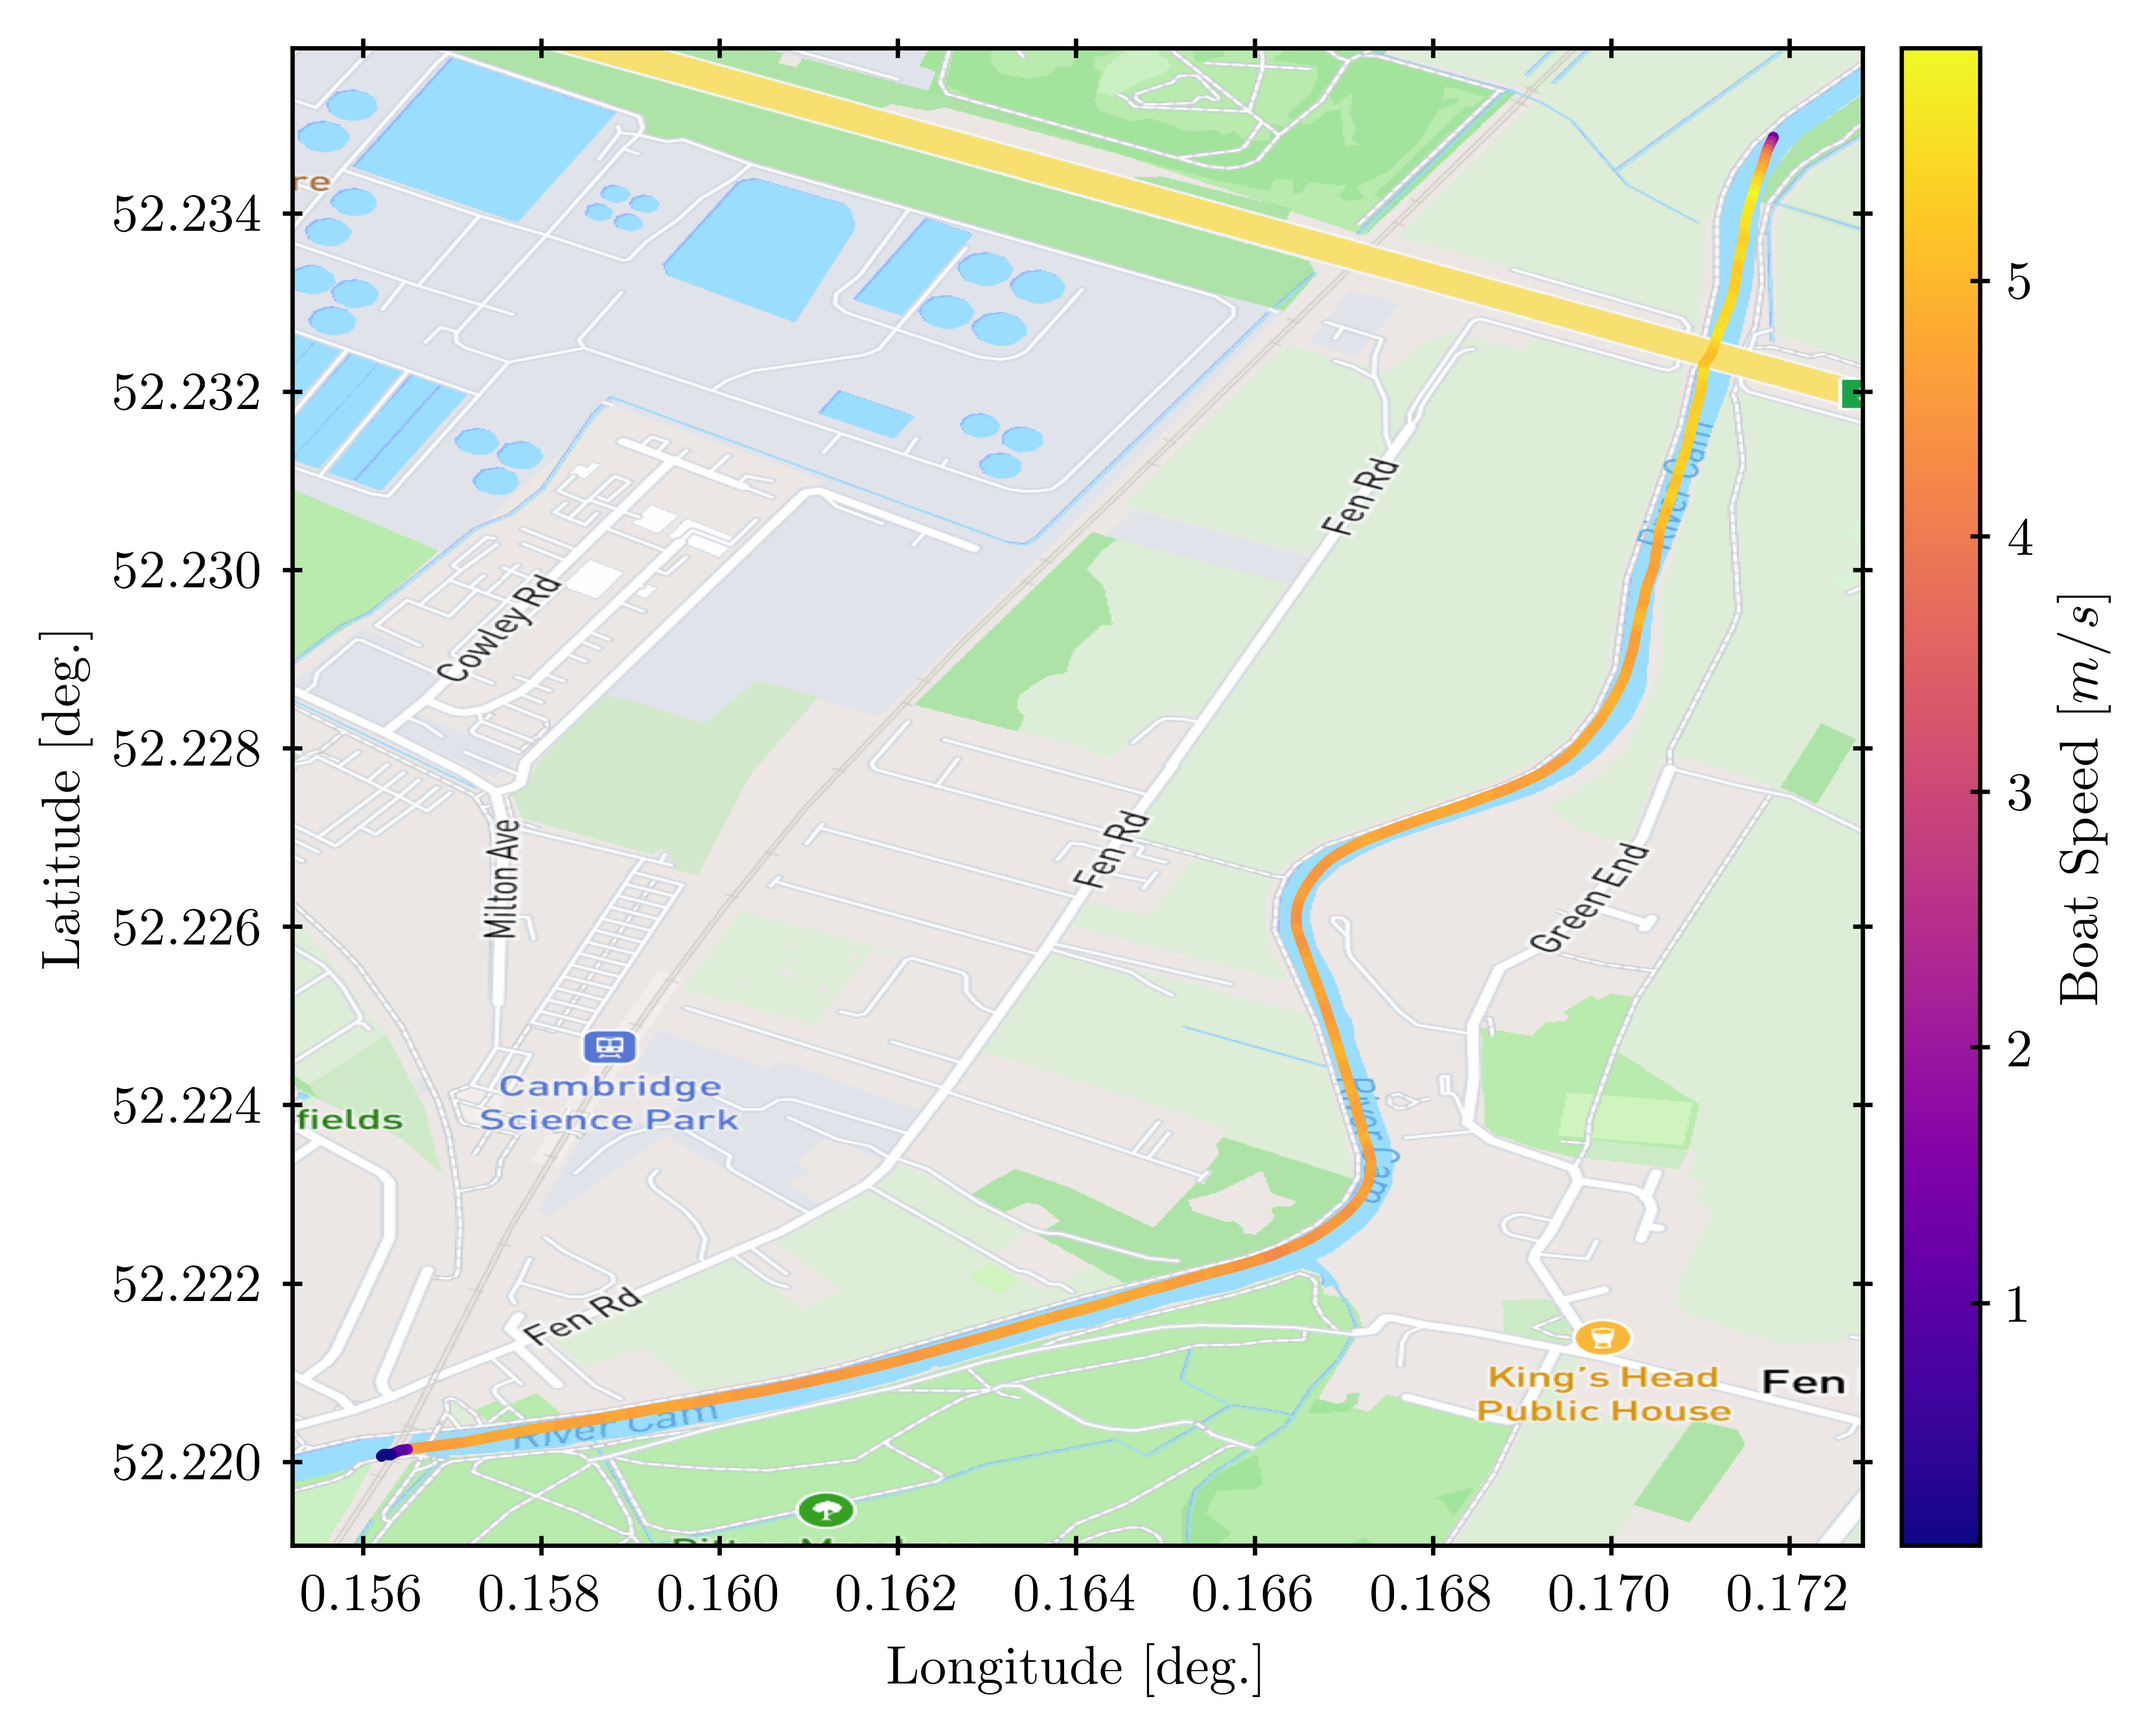
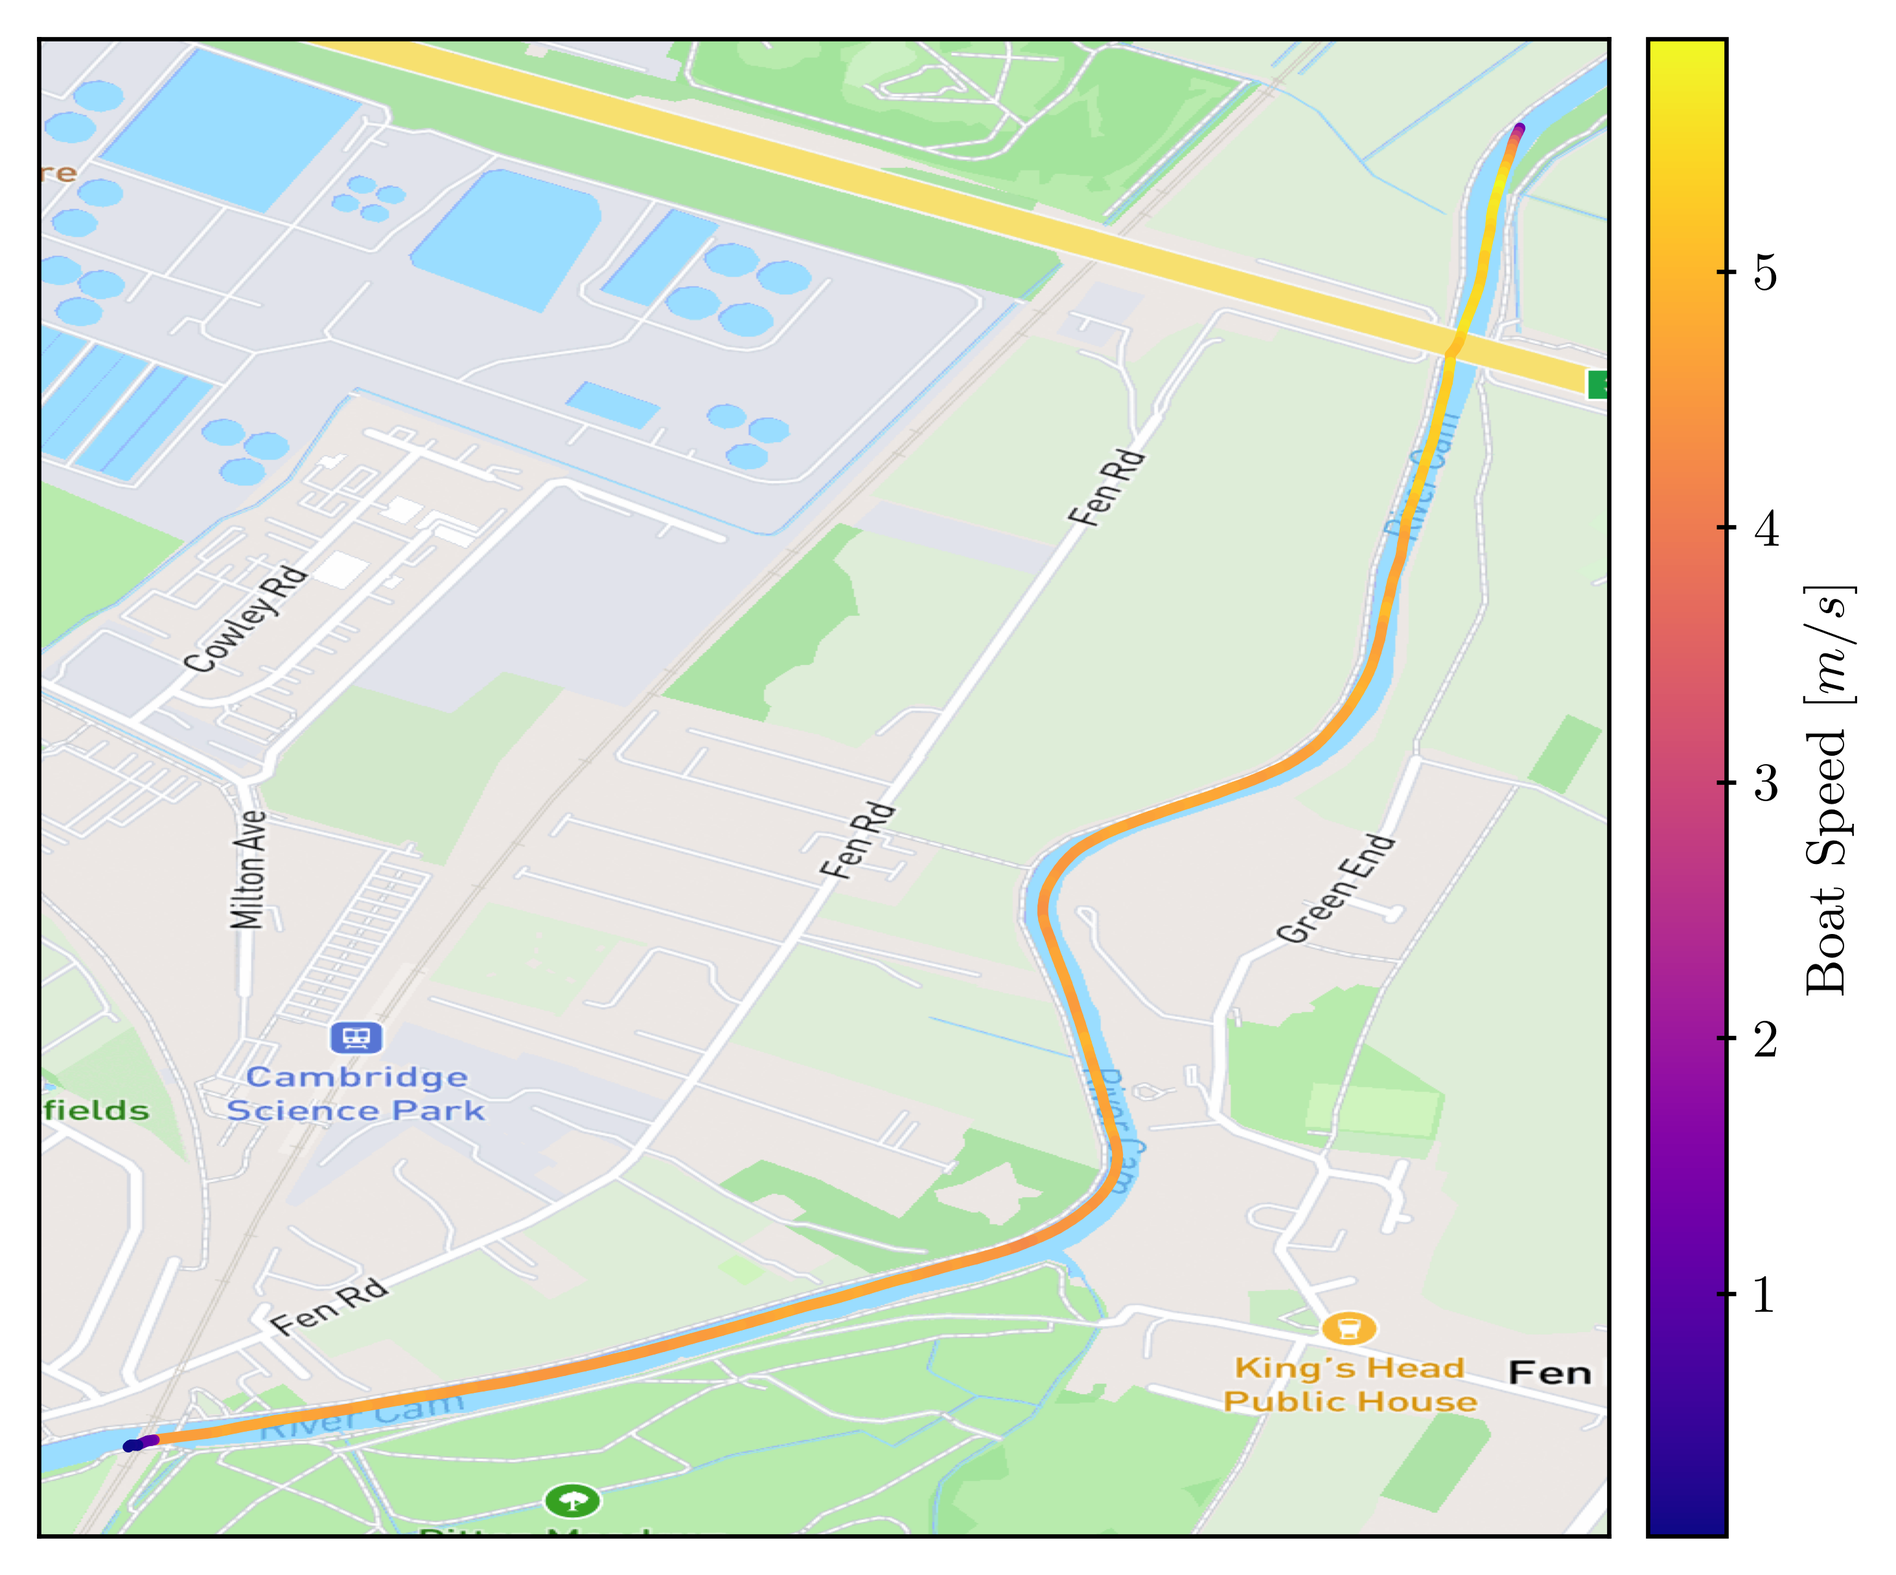
Added plots and analytics tools

diff --git a/strokecoach_plotter.py b/strokecoach_plotter.py
@@ -41,9 +41,11 @@ def ReadSessionDateTime(fname):
     time_h = int(time_string[0:2])
     time_m = int(time_string[2:4])
     
+    if "pm" in fname: time_h = time_h + 12
+    
     session = datetime.datetime(date_y,date_m,date_d,time_h,time_m)
         
-    session_datetime = session.strftime("%a %d %b %Y - %H:%M %p")
+    session_datetime = session.strftime("%a %d %b %Y - %H:%M %p".format())
     
     return session_datetime
 
@@ -190,7 +192,7 @@ def GetMapFromBoundingBox(bbox):
     
 #==============================================================================
 
-def GetBBox(fname,stroke_slice=None,space=0):
+def GetBBox(fname,stroke_slice=None,padding=0):
     
     data = LoadRowingData(fname)
     
@@ -199,37 +201,86 @@ def GetBBox(fname,stroke_slice=None,space=0):
     else:
         indices = slice(0,(data["Total Strokes"].size -1))
         
-    lat = data["GPS Lat."]
-    lon = data["GPS Lon."]
+    lat = data["GPS Lat."][indices]
+    lon = data["GPS Lon."][indices]
     
-    lat_slice = lat[indices]
-    lon_slice = lon[indices]
+    lat_min,lat_max = lat.min(),lat.max()
+    lon_min,lon_max = lon.min(),lon.max()
     
-    lat_min,lat_max = lat_slice.min(),lat_slice.max()
-    lon_min,lon_max = lon_slice.min(),lon_slice.max()
-    
-    lat_avg = (lat_min+lat_max)/2
-    lon_avg = (lon_min+lon_max)/2
-    
-    print("Lat. Min: {:9.6f}, Max: {:9.6f}, Avg: {:9.6f}".format(lat_min,lat_max,lat_avg))
-    print("Lon. Min: {:9.6f}, Max: {:9.6f}, Avg: {:9.6f}".format(lon_min,lon_max,lon_avg))
-    
-    bbox = (lon_min-space,lon_max+space,lat_min-space,lat_max+space) 
+    bbox = (lon_min-padding,lon_max+padding,lat_min-padding,lat_max+padding) 
 
     return bbox
+
+#==============================================================================
+
+def GetStatistics(fname,stroke_slice):
+    
+    print("\nStatistics:\n")
+    
+    data = LoadRowingData(fname)
+    
+    if stroke_slice:
+        indices = slice(stroke_slice[0],stroke_slice[1]-1)
+    else:
+        indices = slice(0,(data["Total Strokes"].size -1))
+    
+    speed = data["Speed (GPS)"][indices]
+    min_speed = speed.min()
+    max_speed = speed.max()
+    avg_speed = np.average(speed)
+    
+    print("{} \t\t\t\t\t\t- Min: {:7.2f}, Max: {:7.2f}, Avg: {:7.2f}".format("Speed [m/s]",min_speed,max_speed,avg_speed))
+    
+    split = data["Split (GPS)"][indices]
+    min_split = split.min()
+    max_split = split.max()
+    avg_split = np.average(split)
+    
+    print("{} \t\t\t\t\t- Min: {:7.2f}, Max: {:7.2f}, Avg: {:7.2f}".format("Split [s/500m]",min_split,max_split,avg_split))
+    
+    stroke_rate = data["Stroke Rate"][indices]
+    min_stroke_rate = stroke_rate.min()
+    max_stroke_rate = stroke_rate.max()
+    avg_stroke_rate = np.average(stroke_rate)
+    
+    print("{} \t\t- Min: {:7.2f}, Max: {:7.2f}, Avg: {:7.2f}".format("Stroke Rate [strokes/minute]",min_stroke_rate,max_stroke_rate,avg_stroke_rate))
+    
+    distance_per_stroke = data["Distance/Stroke (GPS)"][indices]
+    min_distance_per_stroke = distance_per_stroke.min()
+    max_distance_per_stroke = distance_per_stroke.max()
+    avg_distance_per_stroke = np.average(distance_per_stroke)
+    
+    print("{} \t\t- Min: {:7.2f}, Max: {:7.2f}, Avg: {:7.2f}".format("Distance Per Stroke [metres]",min_distance_per_stroke,max_distance_per_stroke,avg_distance_per_stroke))
+
+    total_strokes = data["Total Strokes"][indices]
+    total_strokes = int(total_strokes[-1] - total_strokes[0])
+    
+    print("{} \t\t\t- {}".format("Total Number of Strokes",total_strokes))
+
+    distance = data["Distance (GPS)"][indices]
+    total_distance = distance[-1] - distance[0]
+    
+    print("{} \t- {:.2f}".format("Total Distance Rowed [metres]",total_distance))
+    
+    elapsed_time = data["Elapsed Time"][indices]
+    elapsed_time = elapsed_time[-1] - elapsed_time[0]
+    
+    print("{} \t\t- {:.2f}".format("Total Elapsed Time [seconds]",elapsed_time))
+    
+    return data
 
 #==============================================================================
 
 def PlotGPS(fname,stroke_slice=None,save=True):
 
     plt.style.use("/home/rms221/Documents/Compressive_Neural_Representations_Tensorflow/NeurComp_SourceCode/Auxiliary_Scripts/plot.mplstyle")  
-    params_plot = {'text.latex.preamble': [r'\usepackage{amsmath}',r'\usepackage{amssymb}'],'axes.grid': False}
+    params_plot = {"xtick.labelbottom":"False","xtick.top":"False","xtick.bottom":"False","ytick.labelleft":"False","ytick.left":"False","ytick.right":"False"}
     matplotlib.rcParams.update(params_plot) 
     
-    space = 0.001
+    padding = 0.001
     
     data = LoadRowingData(fname)
-    bbox = GetBBox(fname=fname,stroke_slice=stroke_slice,space=space)
+    bbox = GetBBox(fname=fname,stroke_slice=stroke_slice,padding=padding)
     my_map = GetMapFromBoundingBox(bbox=bbox)
     
     fig, ax = plt.subplots(nrows=1,ncols=1,figsize=(8,5),constrained_layout=False)
@@ -239,21 +290,17 @@ def PlotGPS(fname,stroke_slice=None,save=True):
     else:
         indices = slice(0,(data["Total Strokes"].size -1))
     
-    lat = data["GPS Lat."]
-    lon = data["GPS Lon."]
-    vel = data["Speed (GPS)"]
+    lat = data["GPS Lat."][indices]
+    lon = data["GPS Lon."][indices]
+    speed = data["Speed (GPS)"][indices]
+        
+    norm = plt.Normalize(speed.min(),speed.max())
     
-    lat_slice = lat[indices]
-    lon_slice = lon[indices]
-    vel_slice = vel[indices]
-    
-    norm = plt.Normalize(vel_slice.min(),vel_slice.max())
-    
-    gps_data = np.array([lon_slice,lat_slice]).T.reshape(-1, 1, 2)
+    gps_data = np.array([lon,lat]).T.reshape(-1, 1, 2)
     segments = np.concatenate([gps_data[:-1],gps_data[1:]],axis=1)
     line_collection = LineCollection(segments,cmap='plasma',norm=norm,path_effects=[path_effects.Stroke(capstyle="round")],linewidth=3)
         
-    line_collection.set_array(vel_slice)
+    line_collection.set_array(speed)
     line_collection.set_linewidth(2)
     line = ax.add_collection(line_collection)
 
@@ -264,15 +311,15 @@ def PlotGPS(fname,stroke_slice=None,save=True):
     
     ax.imshow(my_map,extent=(bbox))
     
-    ax.set_xlim(lon_slice.min()-space,lon_slice.max()+space)
-    ax.set_ylim(lat_slice.min()-space,lat_slice.max()+space)
-    ax.set_xlabel(r"Longitude  [deg.]")
-    ax.set_ylabel(r"Latitude  [deg.]")
+    ax.set_xlim(lon.min()-padding,lon.max()+padding)
+    ax.set_ylim(lat.min()-padding,lat.max()+padding)
     
     ax.set_aspect('equal')
     
     session_datetime = ReadSessionDateTime(fname)
     session_savename = session_datetime.replace(":","").replace(" - "," ").replace(" ","_").lower() + "_gps.png"
+        
+    ax.set_title(session_datetime)
     
     if save:
         savename = os.path.join(os.getcwd(),"session_graphs",session_savename)
@@ -283,7 +330,7 @@ def PlotGPS(fname,stroke_slice=None,save=True):
 
 #==============================================================================
 
-def PlotGraphsVsNStrokes(fname,stroke_slice=None,save=True):
+def PlotGraphsVsNStrokes(fname,stroke_slice=None,split_bounds=None,stroke_rate_bounds=None,distance_per_stroke_bounds=None,save=True):
     
     plt.style.use("plot.mplstyle")      
     params_plot = {'text.latex.preamble': [r'\usepackage{amsmath}',r'\usepackage{amssymb}'],'axes.grid': True}
@@ -300,17 +347,29 @@ def PlotGraphsVsNStrokes(fname,stroke_slice=None,save=True):
     stroke_rate = data["Stroke Rate"][indices]
     total_strokes = data["Total Strokes"][indices]
     distance_per_stroke = data["Distance/Stroke (GPS)"][indices]
-    
+
     fig, ax = plt.subplots(nrows=3,ncols=1,figsize=(30,10),constrained_layout=False,sharex=True)
  
     ax[0].plot(total_strokes,split              ,color="b",marker="s",fillstyle="full",markerfacecolor="w")
     ax[1].plot(total_strokes,stroke_rate        ,color="r",marker="o",fillstyle="full",markerfacecolor="w")
-    ax[2].plot(total_strokes,distance_per_stroke,color="g",marker="o",fillstyle="full",markerfacecolor="w")
+    ax[2].plot(total_strokes,distance_per_stroke,color="g",marker="o",fillstyle="full",markerfacecolor="w")    
     
     ax[0].set_xlim(total_strokes[0],total_strokes[-1])
-    ax[0].set_ylim(80,120)
-    ax[1].set_ylim(20,50)
-    ax[2].set_ylim(0,12)
+    
+    if split_bounds:
+        ax[0].set_ylim(split_bounds[0],split_bounds[1])
+    else:
+        ax[0].set_ylim(80,120)
+        
+    if stroke_rate_bounds:
+        ax[1].set_ylim(stroke_rate_bounds[0],stroke_rate_bounds[1])
+    else:
+        ax[1].set_ylim(20,50)
+        
+    if distance_per_stroke_bounds:
+        ax[2].set_ylim(distance_per_stroke_bounds[0],distance_per_stroke_bounds[1])
+    else:
+        ax[2].set_ylim(0,12)
     
     ax[-1].set_xlabel(r"Stroke Count [ - ]")
     
@@ -326,6 +385,8 @@ def PlotGraphsVsNStrokes(fname,stroke_slice=None,save=True):
     session_datetime = ReadSessionDateTime(fname)
     session_savename = session_datetime.replace(":","").replace(" - "," ").replace(" ","_").lower() + "_analysis1.png"
     
+    ax[0].set_title(session_datetime)
+    
     if save:
         savename = os.path.join(os.getcwd(),"session_graphs",session_savename)
         plt.savefig(savename)
@@ -337,7 +398,7 @@ def PlotGraphsVsNStrokes(fname,stroke_slice=None,save=True):
 
 #==============================================================================
 
-def PlotGraphsVsDistance(fname,stroke_slice=None,save=True):
+def PlotGraphsVsDistance(fname,stroke_slice=None,split_bounds=None,stroke_rate_bounds=None,distance_per_stroke_bounds=None,save=True):
     
     plt.style.use("plot.mplstyle")  
     params_plot = {'text.latex.preamble': [r'\usepackage{amsmath}',r'\usepackage{amssymb}'],'axes.grid': True}
@@ -362,10 +423,22 @@ def PlotGraphsVsDistance(fname,stroke_slice=None,save=True):
     ax[2].plot(distance,distance_per_stroke,color="g",marker="o",fillstyle="full",markerfacecolor="w")
     
     ax[0].set_xlim(distance[0],distance[-1])
-    ax[0].set_ylim(80,120)
-    ax[1].set_ylim(20,50)
-    ax[2].set_ylim(0,12)
     
+    if split_bounds:
+        ax[0].set_ylim(split_bounds[0],split_bounds[1])
+    else:
+        ax[0].set_ylim(80,120)
+        
+    if stroke_rate_bounds:
+        ax[1].set_ylim(stroke_rate_bounds[0],stroke_rate_bounds[1])
+    else:
+        ax[1].set_ylim(20,50)
+        
+    if distance_per_stroke_bounds:
+        ax[2].set_ylim(distance_per_stroke_bounds[0],distance_per_stroke_bounds[1])
+    else:
+        ax[2].set_ylim(0,12)
+        
     ax[-1].set_xlabel(r"Distance [ metres ]")
     
     ax[0].set_ylabel(r"Split (GPS) [ minutes : seconds ]",color="b",labelpad=10)
@@ -380,23 +453,30 @@ def PlotGraphsVsDistance(fname,stroke_slice=None,save=True):
     session_datetime = ReadSessionDateTime(fname)
     session_savename = session_datetime.replace(":","").replace(" - "," ").replace(" ","_").lower() + "_analysis2.png"
     
+    ax[0].set_title(session_datetime)
+    
     if save:
         savename = os.path.join(os.getcwd(),"session_graphs",session_savename)
         plt.savefig(savename)
     else: pass
 
     plt.show()
+    
+    return None
 
 #==============================================================================
-
+# For Lent Bumps M1 Day1
 fname ="session_data/Toms Speedcoach 20230307 0427pm.csv"
-
-stroke_slice = None
-
-PlotGPS(fname=fname,stroke_slice=stroke_slice,save=True)
-PlotGraphsVsNStrokes(fname=fname,stroke_slice=stroke_slice,save=True)
-PlotGraphsVsDistance(fname=fname,stroke_slice=stroke_slice,save=True)
-
+stroke_slice = (3,-25)
+split_bounds = (80,120)
+stroke_rate_bounds = (30,50)
+distance_per_stroke_bounds = (0,12)
+#==============================================================================
+save=True
+x= GetStatistics(fname=fname,stroke_slice=stroke_slice)
+# PlotGPS(fname=fname,stroke_slice=stroke_slice,save=save)
+# PlotGraphsVsNStrokes(fname=fname,stroke_slice=stroke_slice,split_bounds=split_bounds,stroke_rate_bounds=stroke_rate_bounds,distance_per_stroke_bounds=distance_per_stroke_bounds,save=save)
+# PlotGraphsVsDistance(fname=fname,stroke_slice=stroke_slice,split_bounds=split_bounds,stroke_rate_bounds=stroke_rate_bounds,distance_per_stroke_bounds=distance_per_stroke_bounds,save=save)
 #==============================================================================
 
 
